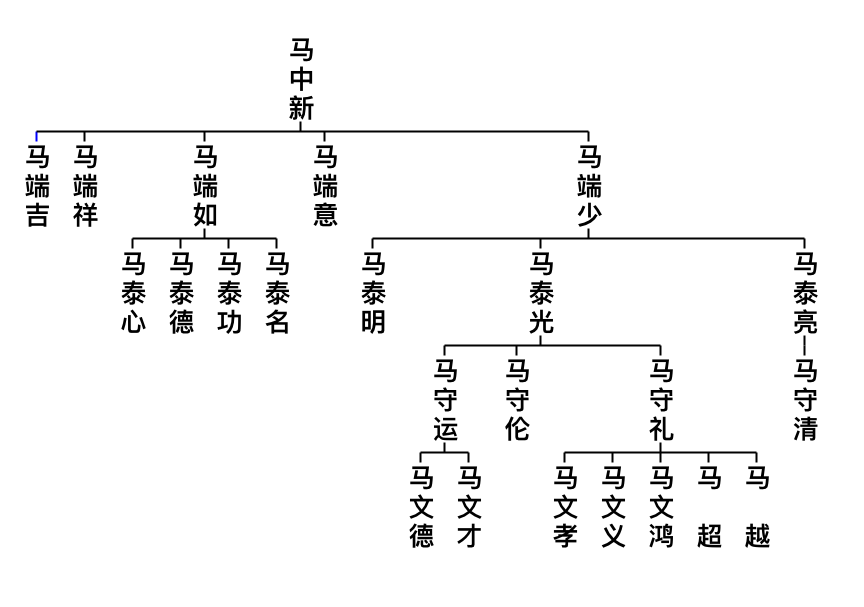
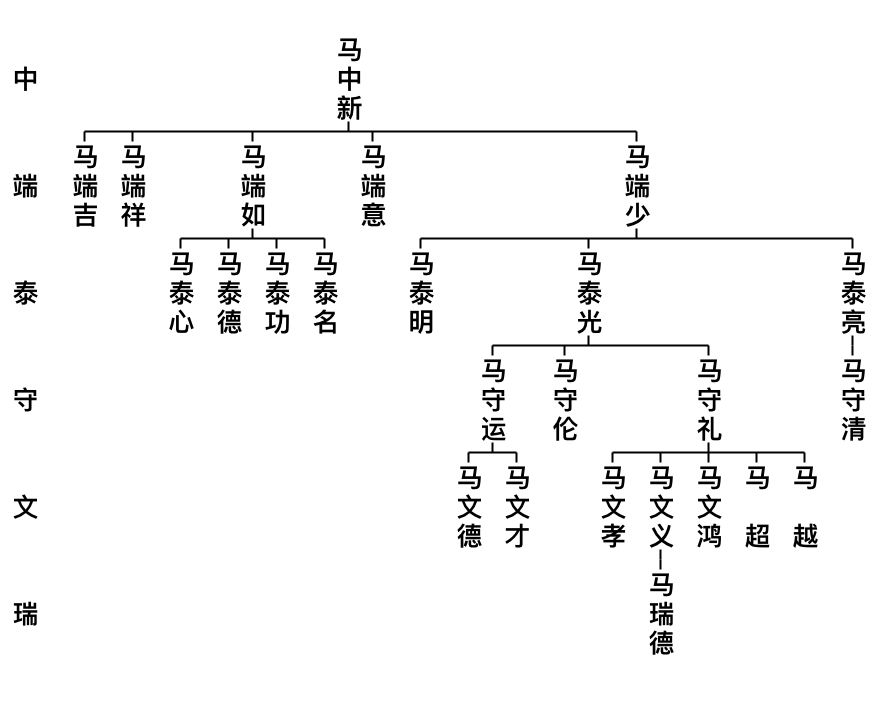
数据独立，修改小的排版bug

diff --git a/README.md b/README.md
@@ -1,9 +1,12 @@
 # famtree
 生成家庭树
 ### 使用方法
+家谱存在在`data.red`中，格式为：字 名 [后代]，最后一行是家族里最小的人，只需写“字”和“名”即可
+
 安装red之后，直接执行即可
 ```
 $ red famtree.red
 ```
+
 执行后会在当前目录下产生一个图片，名字叫做`family-tree.png`，如下图
 ![家族树](https://github.com/mahengyang/famtree/raw/master/family-tree.png)
